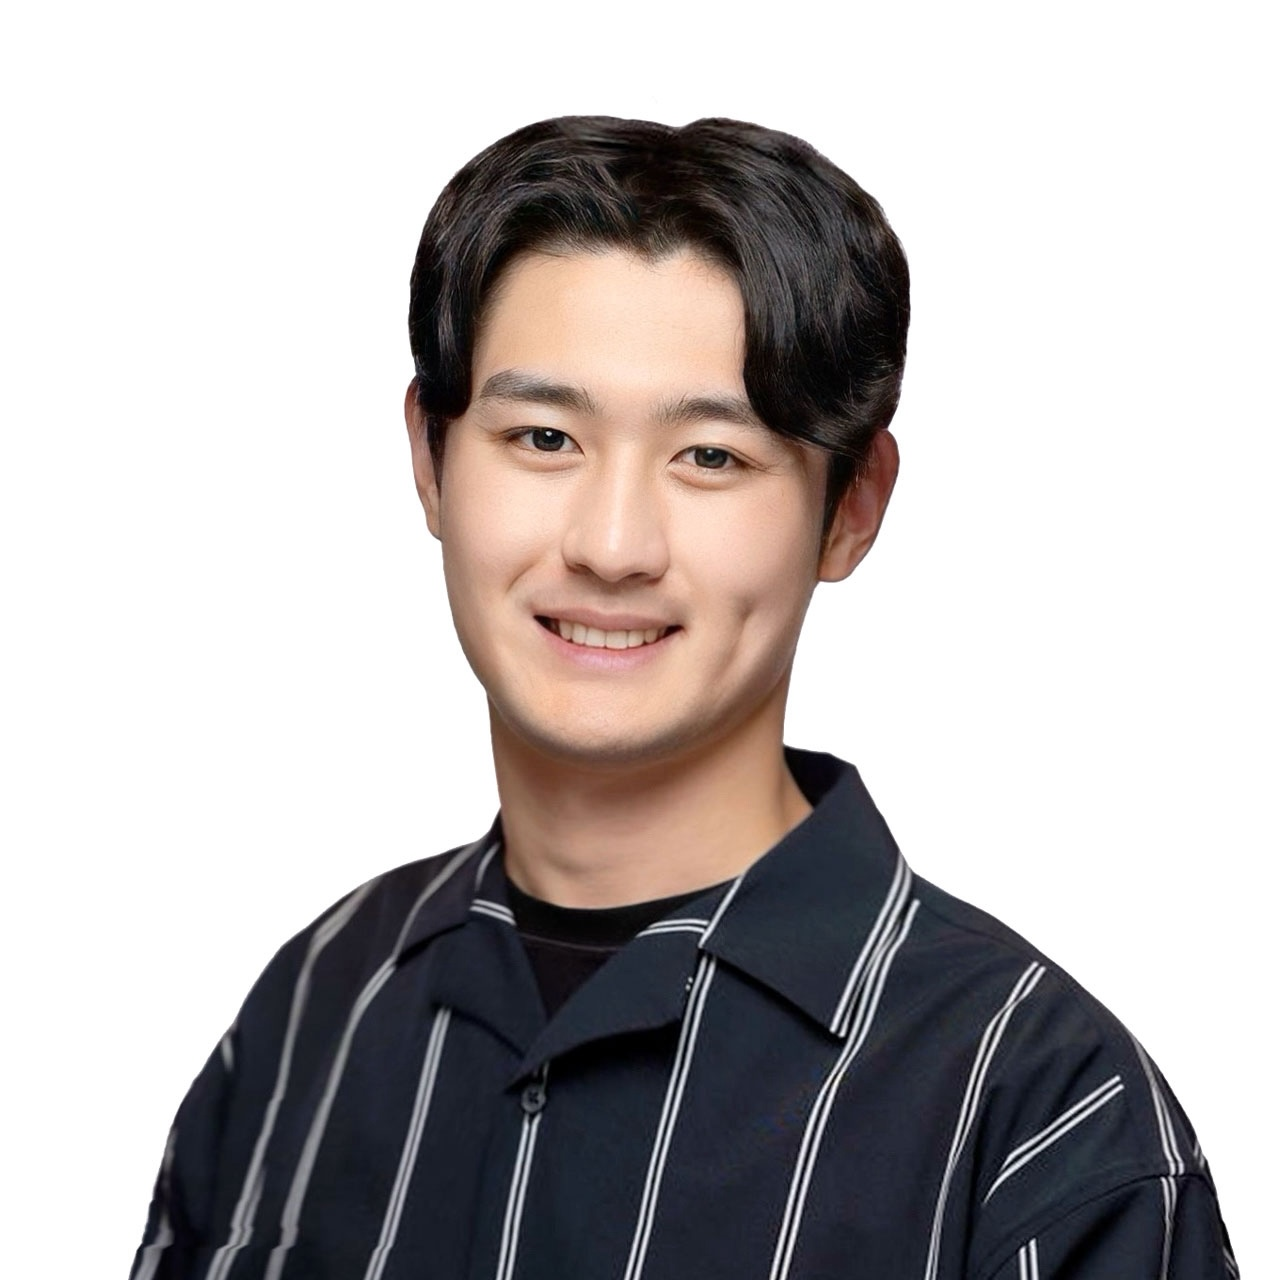
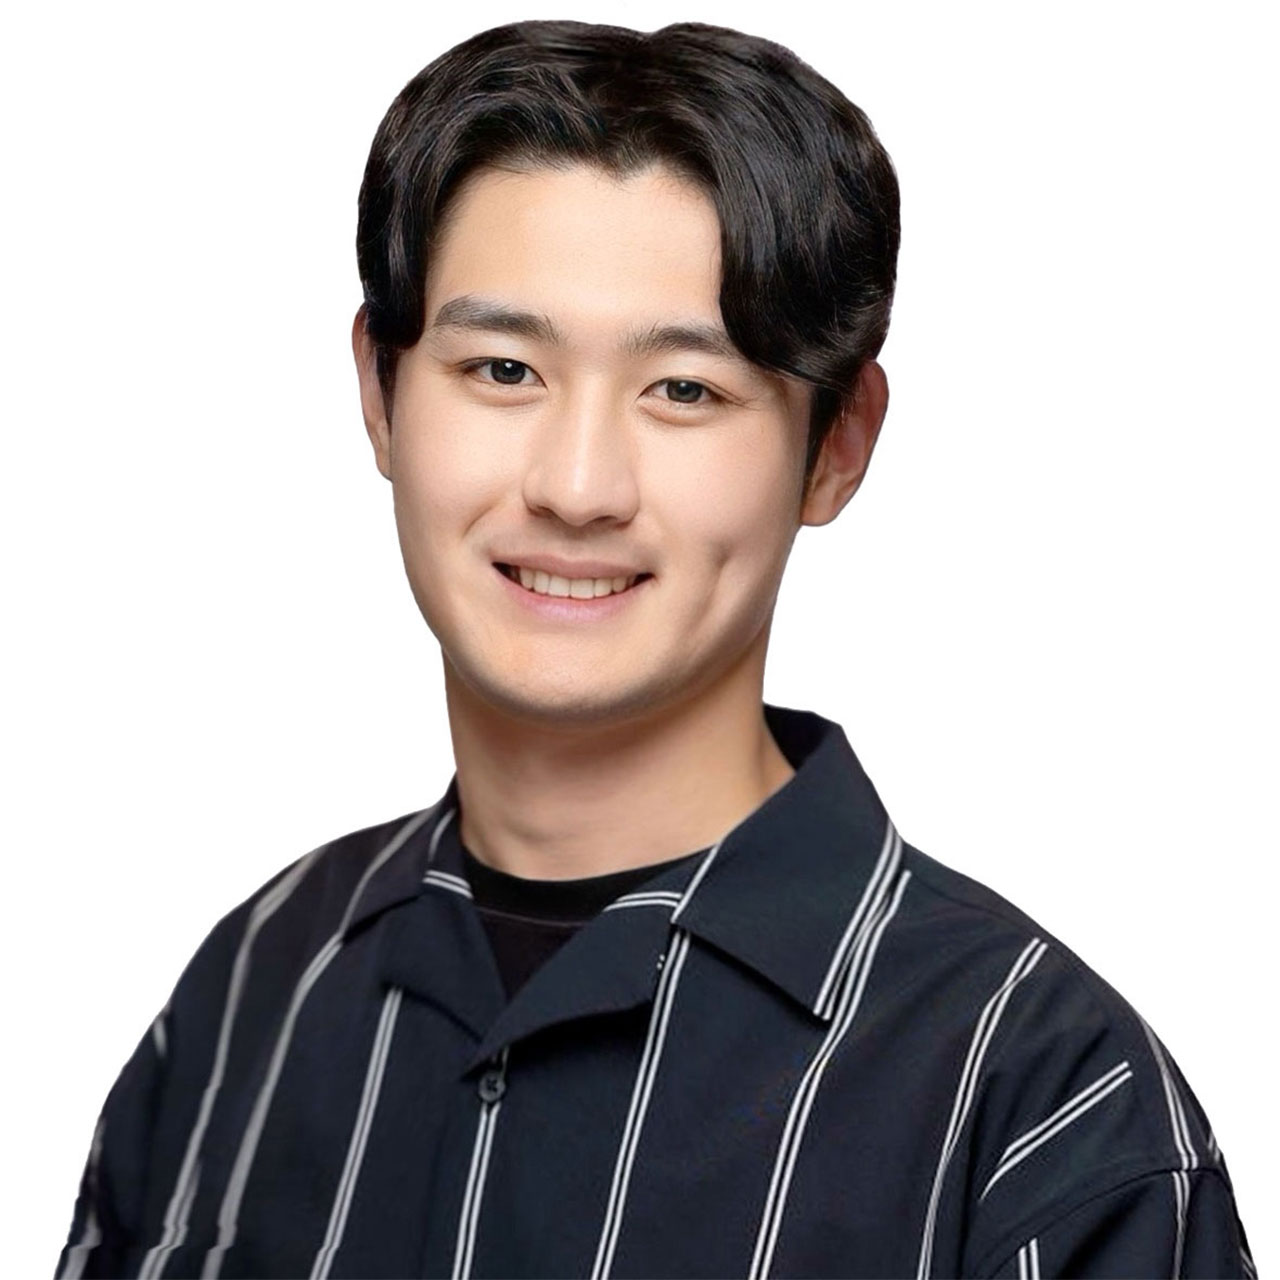
update

Changed region(s): [[0.0312, 0.0, 1.0, 1.0], [0.7812, 0.9688, 0.8125, 1.0]]

diff --git a/index.html b/index.html
@@ -18,10 +18,10 @@ description: HCI researcher | Ph.D. student at the University of Washington
                 <p class="mt-3">I am an HCI researcher and a Ph.D. student in <a href="http://hcde.uw.edu">Human Centered Design & Engineering</a> at the <a href="https://uw.edu"><img class="logo" src="{{ 'assets/images/logo/uw.svg' | relative_url }}"/>University of Washington</a>, where I am co-advised by Profs. <a href="https://faculty.washington.edu/garyhs/">Gary Hsieh</a> and <a href="https://www.llwang.net/">Lucy Lu Wang</a>. Currently, I am working at <a href="https://research.adobe.com/"><img class="logo" src="{{ 'assets/images/logo/adobe.svg' | relative_url }}"/>Adobe</a> as a research intern</p>
                 <p>My research interests lie at the intersection of AI and translational science. More specifically, I design and build AI-infused interfaces to support evidence-based practices in real-world contexts, such as design and healthcare</p>
                 <p>Previously, I did my undergrad in ECE and Information Science at <a href="https://en.snu.ac.kr/">Seoul National University</a>, where I was honored to be selected as the <a href="https://www.kosaf.go.kr/eng/jsp/aid/aid02_01_01.jsp">Presidential Science Scholar</a>. I also worked as a research intern at <a href="https://clova.ai/en/research/research-areas.html">Naver AI</a> and an iOS developer at <a href="https://elecle.bike/">Elecle</a></p>
-                <p>I am the recipient of the <a href="https://www.studyinkorea.go.kr/en/scholarship/Gks4Native1.do#">Korean Government Scholarship for Overseas Study</a> and Honorable Mention Award at CHI</p>
+                <p>I am the recipient of the <a href="https://www.studyinkorea.go.kr/en/scholarship/Gks4Native1.do#">Korean Government Scholarship for Overseas Study</a> and Honorable Mention Award at CHI 2020</p>
             </div>
-            <div class="d-none d-md-block col-12 col-md-4 col-xxl-3 align-self-center">
-                <img src="/assets/images/donghoon.jpg" class="w-100 px-xxl-2"/>
+            <div class="d-none d-md-block col-12 col-md-4 col-xxl-3 align-self-center text-center">
+                <img src="/assets/images/donghoon.jpg" class="w-100" style="max-width: 225px;"/>
             </div>
         </div>
     </div>

diff --git a/assets/css/style.css b/assets/css/style.css
@@ -127,28 +127,28 @@ h4 {
 
 @media screen and (max-width: 1600px) {
 	.page-content {
-		padding: 0 18rem !important;
+		padding: 0 15rem !important;
 	}
     footer {
-	    padding: 3rem 18rem !important;
+	    padding: 3rem 15rem !important;
     }
 }
 
 @media screen and (max-width: 1440px) {
 	.page-content {
-		padding: 0 12rem !important;
+		padding: 0 10rem !important;
 	}
     footer {
-	    padding: 2rem 12rem !important;
+	    padding: 2rem 10rem !important;
     }
 }
 
 @media screen and (max-width: 1200px) {
 	.page-content {
-		padding: 0 5rem !important;
+		padding: 0 4rem !important;
 	}
     footer {
-	    padding: 2rem 5rem !important;
+	    padding: 2rem 4rem !important;
     }
 }
 @media screen and (max-width: 991px) {
